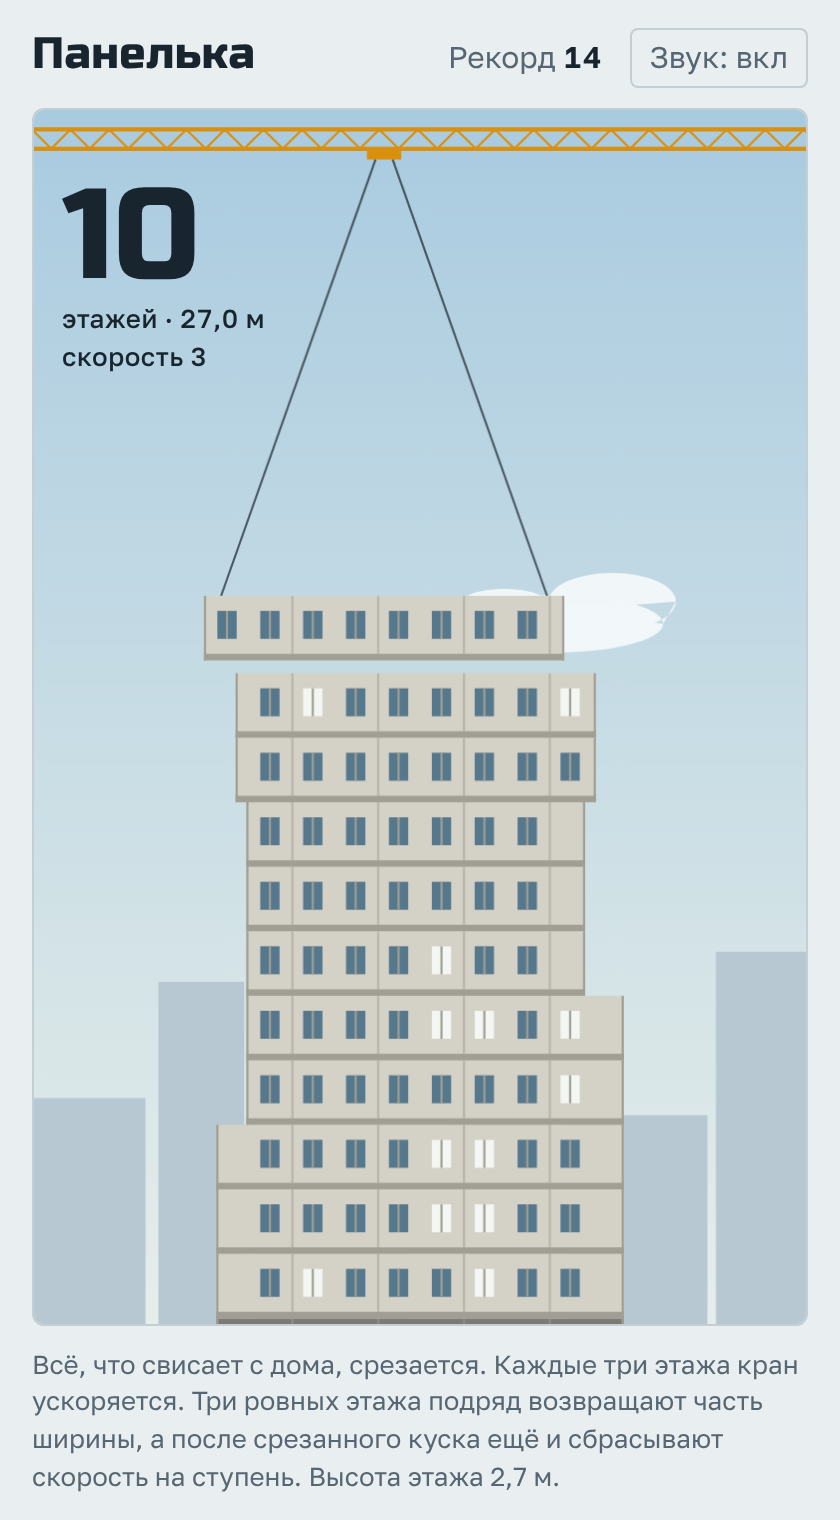
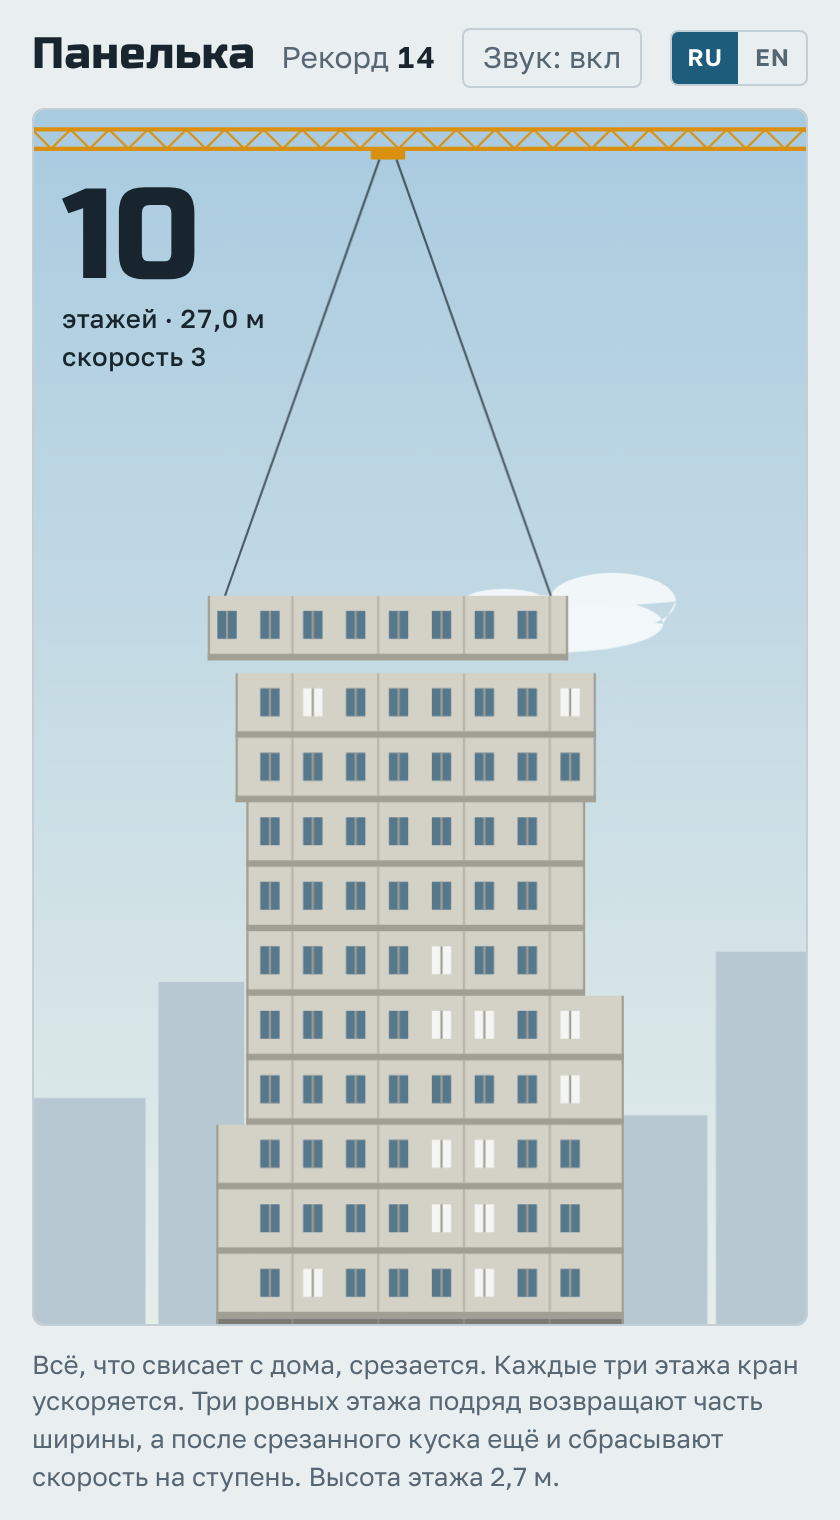
Make the README English, with a Russian version alongside
README.md is now English only, so the repository page reads in English
by default. The Russian text moves to README.ru.md, and each file links
to the other.

The screenshots were retaken to match: the light one shows the Russian
interface and the dark one the English, both with the RU/EN switch.

Claude-Session: https://claude.ai/code/session_011m9jhDwSHMzssbNRw4qgWG

diff --git a/README.md b/README.md
@@ -1,73 +1,75 @@
-# Панелька
+# Panelka
 
-Браузерная игра на реакцию. Башенный кран возит этажи панельного дома, а вы одним нажатием ставите их друг на друга. Чем ровнее, тем выше дом.
+[Русская версия](README.ru.md)
 
-*A one-button browser game: a tower crane carries the floors of a panel apartment block, and you stack them as straight as you can.*
+A one-button browser game about reaction. A tower crane carries the floors of a panel apartment block, and you drop each one onto the stack with a single tap. The straighter you build, the taller the building gets.
 
-**[Играть в браузере](https://posoxai.github.io/PanelHouseBuildGame/)**
+A panelka is the everyday Russian word for a prefabricated panel apartment block.
+
+**[Play in the browser](https://posoxai.github.io/PanelHouseBuildGame/)**
 
 <p>
-  <img src="screenshots/day.png" width="300" alt="Панелька днём: дом в десять этажей, кран подвозит следующий этаж">
-  <img src="screenshots/night.png" width="300" alt="Та же стройка в тёмной теме: ночь, в окнах горит свет">
+  <img src="screenshots/day.png" width="300" alt="Panelka by day with the Russian interface: a ten-floor building and the crane bringing the next floor">
+  <img src="screenshots/night.png" width="300" alt="The same site in the dark theme with the English interface: night, with lit windows">
 </p>
 
-Слева светлая тема, справа тёмная.
+Left: the light theme with the Russian interface. Right: the dark theme with the English one.
 
-## Как играть
+## How to play
 
-Нажмите на поле или пробел (Enter тоже работает), когда этаж окажется над домом.
+Tap the site or press Space (Enter works too) when the floor is over the building.
 
-- Всё, что свисает с дома, срезается, и следующий этаж становится уже.
-- Этаж, поставленный мимо дома, заканчивает стройку.
-- Этаж считается ровным, если он встал почти точно на предыдущий.
+- Anything that overhangs the building is cut off, and the next floor is that much narrower.
+- A floor dropped beside the building ends the game.
+- A floor counts as straight when it lands almost exactly on the one below.
 
-## Правила скорости и ширины
+## Speed and width
 
-- Кран ускоряется на одну ступень каждые три поставленных этажа. Текущая ступень показана под счётчиком этажей.
-- Три ровных этажа подряд возвращают часть ширины. Каждый следующий ровный этаж в серии возвращает ещё немного, пока дом не вернётся к исходной ширине.
-- Если до этой серии был срезан кусок, третий ровный этаж ещё и сбрасывает скорость на одну ступень. Сброс срабатывает один раз на каждый срез.
-- Когда сброс совпадает с плановым ускорением, они гасят друг друга, и скорость остаётся прежней.
+- The crane speeds up one step for every three floors placed. The current step is shown under the floor counter.
+- Three straight floors in a row win back some width. Each further straight floor in the run wins back a little more, until the building is back to its starting width.
+- If a piece was cut off before that run, the third straight floor also takes the speed down one step. This happens once per cut.
+- When that drop falls on a scheduled speed-up, the two cancel out and the speed stays the same.
 
-## Звания
+## Ranks
 
-Сданный дом получает звание по числу этажей.
+A finished building gets a rank by its number of floors.
 
-| Этажей | Звание |
+| Floors | Rank |
 | --- | --- |
-| 0 | Котлован |
-| 1–4 | Недострой |
-| 5–8 | Хрущёвка |
-| 9–11 | Девятиэтажка |
-| 12–15 | Двенадцатиэтажка |
-| 16–24 | Шестнадцатиэтажка |
-| 25–39 | Высотка |
-| 40 и больше | Небоскрёб |
+| 0 | Foundation pit |
+| 1–4 | Unfinished |
+| 5–8 | Khrushchyovka |
+| 9–11 | Nine-storey block |
+| 12–15 | Twelve-storey block |
+| 16–24 | Sixteen-storey block |
+| 25–39 | High-rise |
+| 40 and more | Skyscraper |
 
-Высота этажа в игре 2,7 м, поэтому рядом со счётом показана высота дома в метрах.
+The ranks are the everyday Russian names for standard apartment blocks. A khrushchyovka is the low-rise type built in the Khrushchev years, usually five storeys.
 
-## Язык
+A floor in the game is 2.7 m tall, so the building's height in metres is shown next to the score.
 
-Интерфейс на русском и английском. Русский включается сам, если он есть в списке языков браузера, иначе игра открывается на английском. Переключатель RU/EN запоминает выбор.
+## Language
 
-*The interface is in Russian and English. It opens in Russian when Russian is among the browser's languages and in English otherwise; the RU/EN switch remembers your choice.*
+The interface is in English and Russian. It opens in Russian when Russian is among the browser's languages and in English otherwise. The RU/EN switch remembers your choice.
 
-## Как запустить
+## How to run
 
-Вся игра лежит в одном файле `index.html`. Сборка и зависимости не нужны.
+The whole game is one file, `index.html`. There is no build step and there are no dependencies.
 
-- Локально: откройте `index.html` в браузере.
-- По ссылке: игра опубликована через GitHub Pages по адресу https://posoxai.github.io/PanelHouseBuildGame/. Каждый коммит в `main` обновляет её автоматически.
+- Locally: open `index.html` in a browser.
+- Online: the game is published with GitHub Pages at https://posoxai.github.io/PanelHouseBuildGame/. Every commit to `main` updates it automatically.
 
-Шрифты загружаются с Google Fonts. Без сети игра работает на системных шрифтах.
+Fonts load from Google Fonts. Without a network the game falls back to system fonts.
 
-Рекорд и настройка звука хранятся в браузере игрока. Светлая тема рисует дом днём, тёмная — ночью, с горящими окнами.
+The best score and the sound setting are kept in the player's browser. The light theme draws the building by day and the dark theme by night, with lit windows.
 
-## Авторство
+## Credits
 
-Игру придумал, нарисовал и написал Claude, ИИ-ассистент компании Anthropic: механику, графику на canvas, звук и оформление страницы.
+The game was designed, drawn and written by Claude, the AI assistant made by Anthropic: the mechanics, the canvas graphics, the sound and the page design.
 
-Идея сделать браузерную игру и правила скорости (ступени каждые три этажа и сброс после трёх ровных этажей) принадлежат posoxAI.
+The idea of making a browser game and the speed rules (a step every three floors, and the drop after three straight floors) came from posoxAI.
 
-## Лицензия
+## License
 
-MIT. Полный текст в файле [LICENSE](LICENSE).
+MIT. The full text is in [LICENSE](LICENSE).

diff --git a/README.ru.md b/README.ru.md
@@ -1,0 +1,71 @@
+# Панелька
+
+[English version](README.md)
+
+Браузерная игра на реакцию. Башенный кран возит этажи панельного дома, а вы одним нажатием ставите их друг на друга. Чем ровнее, тем выше дом.
+
+**[Играть в браузере](https://posoxai.github.io/PanelHouseBuildGame/)**
+
+<p>
+  <img src="screenshots/day.png" width="300" alt="Панелька днём, русский интерфейс: дом в десять этажей, кран подвозит следующий этаж">
+  <img src="screenshots/night.png" width="300" alt="Та же стройка в тёмной теме с английским интерфейсом: ночь, в окнах горит свет">
+</p>
+
+Слева светлая тема с русским интерфейсом, справа тёмная с английским.
+
+## Как играть
+
+Нажмите на поле или пробел (Enter тоже работает), когда этаж окажется над домом.
+
+- Всё, что свисает с дома, срезается, и следующий этаж становится уже.
+- Этаж, поставленный мимо дома, заканчивает стройку.
+- Этаж считается ровным, если он встал почти точно на предыдущий.
+
+## Правила скорости и ширины
+
+- Кран ускоряется на одну ступень каждые три поставленных этажа. Текущая ступень показана под счётчиком этажей.
+- Три ровных этажа подряд возвращают часть ширины. Каждый следующий ровный этаж в серии возвращает ещё немного, пока дом не вернётся к исходной ширине.
+- Если до этой серии был срезан кусок, третий ровный этаж ещё и сбрасывает скорость на одну ступень. Сброс срабатывает один раз на каждый срез.
+- Когда сброс совпадает с плановым ускорением, они гасят друг друга, и скорость остаётся прежней.
+
+## Звания
+
+Сданный дом получает звание по числу этажей.
+
+| Этажей | Звание |
+| --- | --- |
+| 0 | Котлован |
+| 1–4 | Недострой |
+| 5–8 | Хрущёвка |
+| 9–11 | Девятиэтажка |
+| 12–15 | Двенадцатиэтажка |
+| 16–24 | Шестнадцатиэтажка |
+| 25–39 | Высотка |
+| 40 и больше | Небоскрёб |
+
+Высота этажа в игре 2,7 м, поэтому рядом со счётом показана высота дома в метрах.
+
+## Язык
+
+Интерфейс на русском и английском. Русский включается сам, если он есть в списке языков браузера, иначе игра открывается на английском. Переключатель RU/EN запоминает выбор.
+
+## Как запустить
+
+Вся игра лежит в одном файле `index.html`. Сборка и зависимости не нужны.
+
+- Локально: откройте `index.html` в браузере.
+- По ссылке: игра опубликована через GitHub Pages по адресу https://posoxai.github.io/PanelHouseBuildGame/. Каждый коммит в `main` обновляет её автоматически.
+
+Шрифты загружаются с Google Fonts. Без сети игра работает на системных шрифтах.
+
+Рекорд и настройка звука хранятся в браузере игрока. Светлая тема рисует дом днём, тёмная — ночью, с горящими окнами.
+
+## Авторство
+
+Игру придумал, нарисовал и написал Claude, ИИ-ассистент компании Anthropic: механику, графику на canvas, звук и оформление страницы.
+
+Идея сделать браузерную игру и правила скорости (ступени каждые три этажа и сброс после трёх ровных этажей) принадлежат posoxAI.
+
+## Лицензия
+
+MIT. Полный текст в файле [LICENSE](LICENSE).
